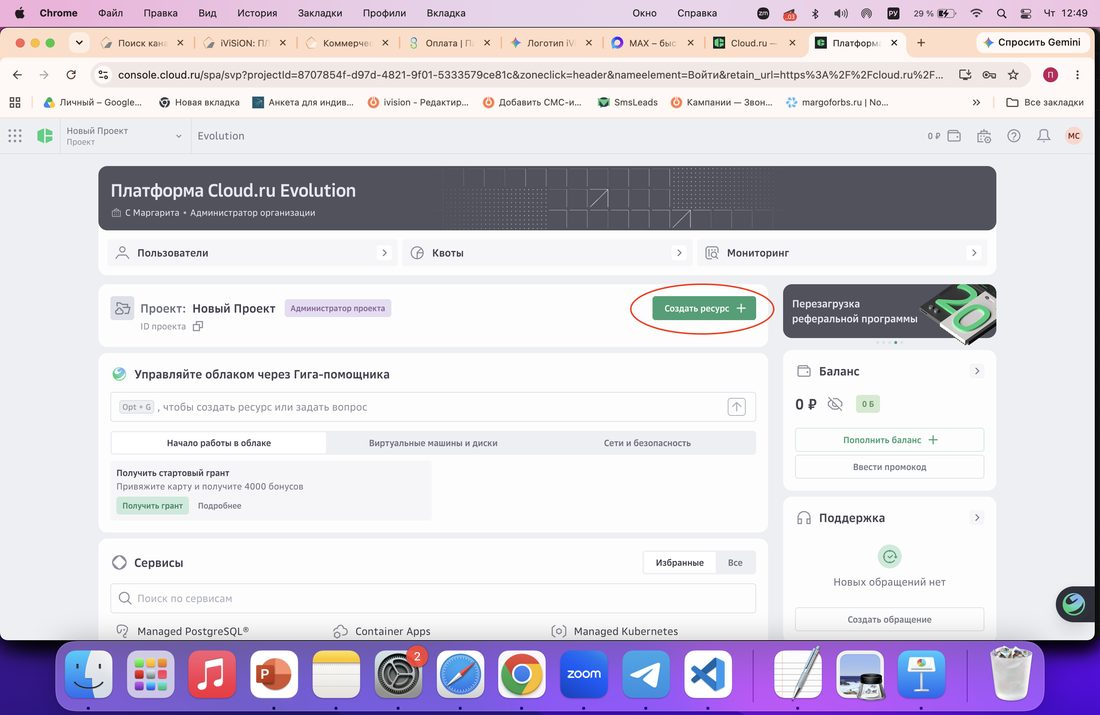
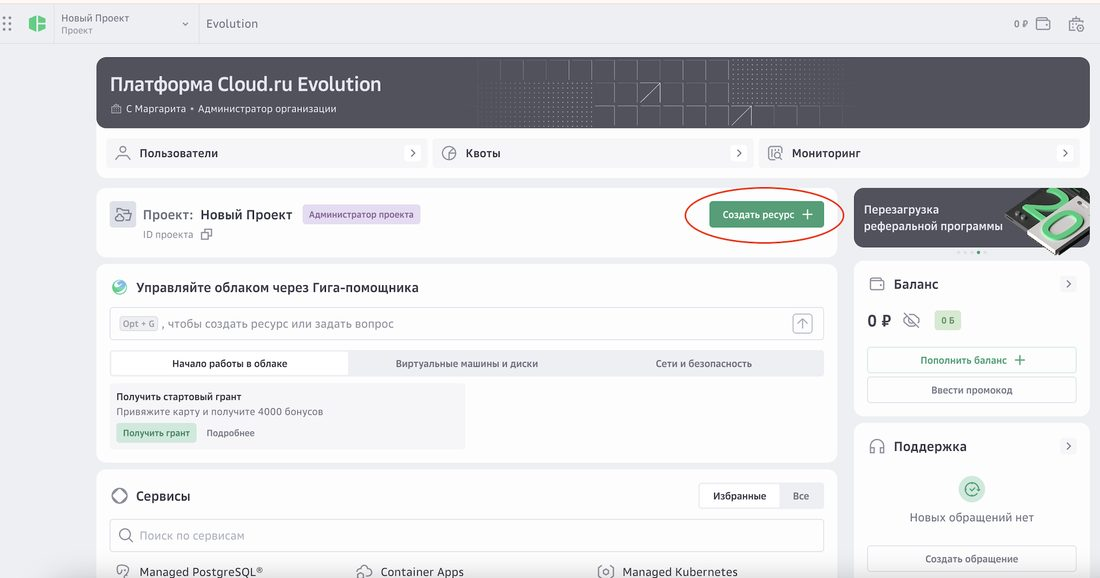
docs(инструкции): Cloud.ru — скриншоты создания бакета и публичного доступа
Добавлены шаги: создание бакета (Создать ресурс → Бакет объектного хранилища),
пояснение «от 3,41 ₽» (это цена СВЕРХ free tier: 15 ГБ и 10 ТБ трафика в месяц
бесплатно, скриншот подсказки), включение публичного доступа через Bucket Policy,
возврат к правке названий через три точки.

⚠ Глобальное название помечено у Cloud.ru как «Опционально», но БЕЗ НЕГО файлы
не открываются у посетителей — анонимный доступ работает только по глобальному
или доменному имени. В инструкции сказано заполнять сразу.

⚠ На скриншоте списка бакетов замазан ID тенанта — идентификатор аккаунта
Cloud.ru, в публичной инструкции ему не место.

Все скриншоты пожаты до 1100px/JPEG перед добавлением.

diff --git a/web/src/app/dashboard/help/cloud-storage/page.tsx b/web/src/app/dashboard/help/cloud-storage/page.tsx
@@ -36,6 +36,7 @@ export default function CloudStorageInstructionPage() {
         { id: 'card', title: 'Карту привязывать не нужно' },
         { id: 'bucket', title: 'Создание хранилища' },
         { id: 'price', title: 'Почему написано «от 3,41 ₽»' },
+        { id: 'public', title: 'Публичный доступ' },
         { id: 'keys', title: 'Ключи доступа' },
         { id: 'connect', title: 'Подключение к ПЛЮСОНу' },
       ]} />
@@ -133,7 +134,8 @@ export default function CloudStorageInstructionPage() {
         <p className="mt-3">Откроется форма. Заполнять в ней почти нечего:</p>
         <ul className="mt-2 space-y-1.5 text-[15px] text-gray-700">
           <li>• <b>Название</b> — латиницей, например <code className="rounded bg-gray-100 px-1">pluson</code>. Cloud.ru подставит своё вроде <code className="rounded bg-gray-100 px-1">bucket-3bdab6</code> — замените на понятное. Уникально только внутри вашего проекта, поэтому короткое имя точно свободно.</li>
-          <li>• <b>Глобальное название</b> и <b>Доменное имя</b> — пропустите, они необязательные и их можно задать позже.</li>
+          <li>• <b>Глобальное название</b> — заполните <b>сразу</b>, хотя написано «Опционально»: без него файлы не откроются у посетителей. Готовое имя мы подсказываем в разделе «Файловое хранилище» — вида <code className="rounded bg-gray-100 px-1">pluson-media-12-a7k3</code>. Скопируйте его оттуда.</li>
+          <li>• <b>Доменное имя</b> — пропустите.</li>
           <li>• <b>Класс хранения: Стандартный</b> — не меняйте.</li>
           <li>• <b>Максимальный объём бакета</b> — оставьте выключенным, иначе упрётесь в лимит и загрузка файлов начнёт срываться.</li>
           <li>• <b>Логирование</b> — оставьте выключенным: оно пишет журнал обращений и само занимает место.</li>
@@ -151,14 +153,32 @@ export default function CloudStorageInstructionPage() {
           <br /><br />
           <b>Глобальное название</b> — публичное, из него собирается прямой адрес файла
           вида <code className="rounded bg-gray-100 px-1">global.s3.cloud.ru/имя/файл</code>,
-          и оно уникально на всю платформу Cloud.ru — короткое слово может оказаться
-          занято. Заполнять его не нужно: файлы будут открываться с вашего домена,
-          а не с адреса Cloud.ru.
+          и оно уникально на всю платформу Cloud.ru — короткое слово может оказаться занято.
+          <br /><br />
+          ⚠ Заполнить его <b>обязательно</b>: Cloud.ru отдаёт файлы посторонним только
+          по глобальному или доменному имени. Без него публичный доступ включится,
+          но картинки всё равно не откроются.
+          <br /><br />
+          Имя уникально на всю платформу Cloud.ru, а её клиенты — не только ПЛЮСОН,
+          поэтому короткое слово почти наверняка занято. Берите вид
+          <code className="rounded bg-gray-100 px-1">pluson-media-N-xxxx</code>: номер
+          кабинета плюс несколько случайных символов. Готовое имя мы подсказываем
+          в разделе «Файловое хранилище» — его можно скопировать и вставить.
         </Note>
 
         <Screenshot src={`${S}/07-bucket-form.jpg`}
-          alt="Форма создания бакета: название, класс хранения, тумблеры объёма и логирования"
-          caption="Так выглядит заполненная форма перед нажатием «Создать»" />
+          alt="Форма создания бакета: обведены поля «Название», «Глобальное название» и кнопка «Создать»"
+          caption="Заполняем оба названия и нажимаем «Создать»" />
+
+        <p className="mt-3">
+          После создания вас вернёт на главную страницу кабинета. <b>Отмотайте её вниз</b> —
+          в блоке «Object Storage» появится карточка вашего хранилища. Нажмите на его
+          название, чтобы открыть настройки.
+        </p>
+
+        <Screenshot src={`${S}/09-bucket-created.jpg`}
+          alt="Главная кабинета, внизу блок Object Storage с карточкой созданного бакета"
+          caption="Карточка бакета — внизу главной страницы. Нажимаем на название" />
       </Step>
 
       <Step step="5" id="price" title="Почему справа написано «от 3,41 ₽» — и почему платить не придётся">
@@ -190,7 +210,52 @@ export default function CloudStorageInstructionPage() {
         </Note>
       </Step>
 
-      <Step step="6" id="keys" title="Создайте ключ доступа">
+      <Step step="6" id="public" title="Включите публичный доступ">
+        <p>
+          Бакет создаётся <b>приватным</b> — файлы в нём видите только вы. Чтобы афиши
+          и фото открывались у посетителей ваших страниц, доступ нужно открыть вручную.
+        </p>
+        <p className="mt-2">Откройте созданный бакет и сделайте два действия:</p>
+        <p className="mt-2">В левом меню бакета выберите <b>«Bucket Policy»</b>.</p>
+
+        <Screenshot src={`${S}/10-bucket-menu-policy.jpg`}
+          alt="Меню бакета: файловый менеджер, информация, хостинг сайта, Bucket Policy"
+          caption="Нужен пункт «Bucket Policy» в левом меню" />
+
+        <p className="mt-3">
+          Включите тумблер <b>«Публичный доступ к бакету»</b> — он станет зелёным, а ниже
+          сама подставится политика доступа. Её править не нужно. Нажмите <b>«Сохранить»</b>.
+        </p>
+
+        <Screenshot src={`${S}/11-public-access.jpg`}
+          alt="Настройка Bucket Policy: включённый тумблер публичного доступа и кнопка Сохранить"
+          caption="Включаем тумблер и нажимаем «Сохранить». Политику ниже не трогаем" />
+
+        <Note title="Забыли вписать глобальное название?">
+          Его можно задать и после создания. В левом меню нажмите стрелку
+          <b> «‹ Назад к Object Storage»</b> — откроется список бакетов. Справа от строки
+          вашего бакета нажмите <b>три точки</b> и выберите <b>«Редактировать»</b>:
+          там же поля названий.
+        </Note>
+
+        <Screenshot src={`${S}/12-edit-bucket.jpg`}
+          alt="Список бакетов, меню трёх точек с пунктами Информация, Параметры API, Редактировать, Удалить"
+          caption="Три точки справа от бакета → «Редактировать»" />
+
+        <Warn title="Без глобального названия публичный доступ не работает">
+          Cloud.ru отдаёт файлы посторонним только по глобальному или доменному имени.
+          Включить политику и не задать имя — значит получить бакет, который считается
+          публичным, но картинки из него всё равно не открываются.
+        </Warn>
+
+        <Note title="Что означает «публичный»">
+          Только одно: файл можно скачать по прямой ссылке — иначе браузер посетителя
+          не покажет ваши афиши. Загружать, изменять и удалять файлы по-прежнему
+          можете лишь вы, по ключам доступа.
+        </Note>
+      </Step>
+
+      <Step step="7" id="keys" title="Создайте ключ доступа">
         <p>
           В том же кабинете найдите раздел с ключами доступа (может называться
           «Ключи доступа», «Сервисные аккаунты» или «S3-ключи») и создайте новый.
@@ -203,7 +268,7 @@ export default function CloudStorageInstructionPage() {
         </Warn>
       </Step>
 
-      <Step step="7" id="connect" title="Передайте данные нам — и всё">
+      <Step step="8" id="connect" title="Передайте данные нам — и всё">
         <p>Напишите в поддержку четыре значения:</p>
         <ul className="mt-2 space-y-1.5 text-[15px] text-gray-700">
           <li>• Access Key ID</li>
